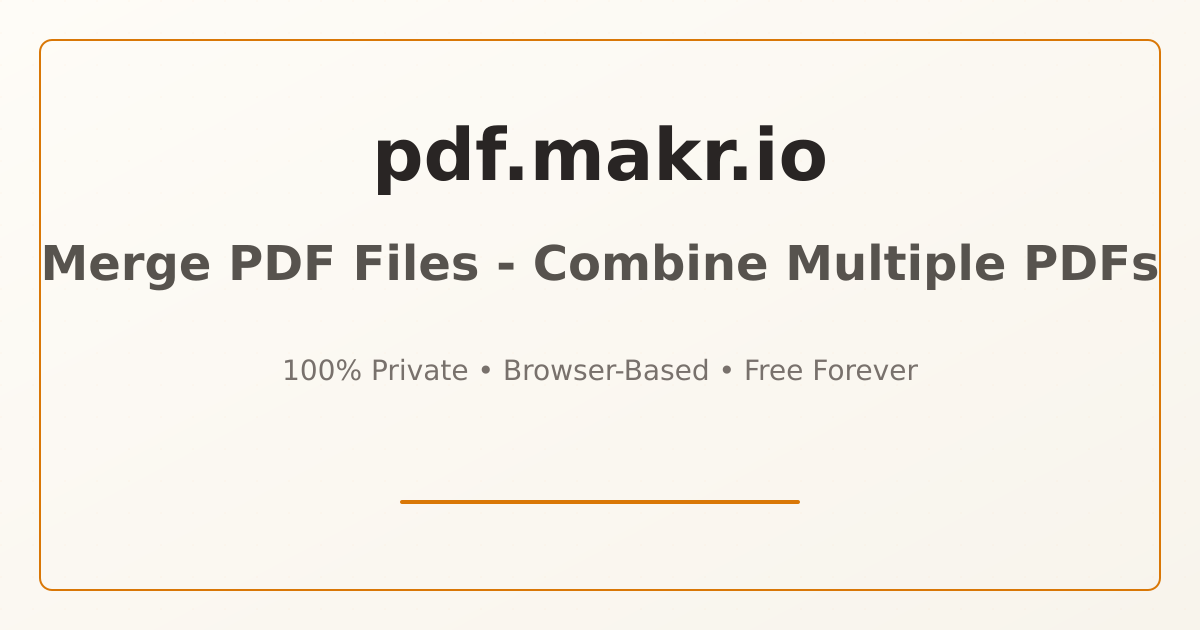
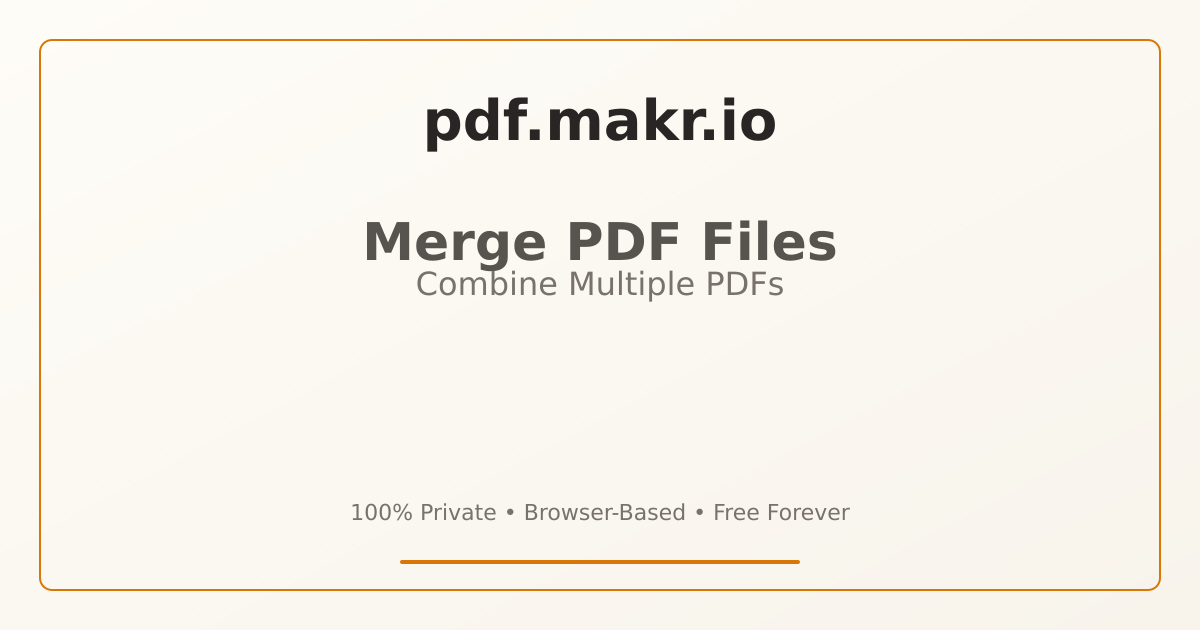
feat: Add text wrapping to OG images with long titles
- Created generate-og-images.js script to generate OG images with proper text wrapping
- Implemented intelligent word wrapping for title and subtitle lines
- Fixed og-delete and og-rotate images that had long subtitles
- All OG images now properly wrap text to prevent overflow
- Regenerated all 10 OG images with consistent layout and spacing

diff --git a/scripts/generate-og-images.js b/scripts/generate-og-images.js
@@ -1,31 +1,71 @@
-/**
- * Script to generate OG images for all pages
- * Run with: node scripts/generate-og-images.js
- *
- * This creates placeholder OG images. For production, consider using:
- * - @vercel/og for dynamic generation
- * - https://og-playground.vercel.app/ for design
- * - Figma/Canva for custom designs
- */
-
 const fs = require('fs');
 const path = require('path');
 
 const tools = [
-  { name: 'og-image', title: 'PDF Tools - Free Online PDF Editor' },
-  { name: 'og-compress', title: 'Compress PDF - Reduce File Size' },
-  { name: 'og-delete', title: 'Delete PDF Pages - Remove Unwanted Pages' },
-  { name: 'og-images-to-pdf', title: 'Images to PDF - Convert JPG, PNG to PDF' },
-  { name: 'og-merge', title: 'Merge PDF Files - Combine Multiple PDFs' },
-  { name: 'og-page-numbers', title: 'Add Page Numbers to PDF' },
-  { name: 'og-pdf-to-images', title: 'PDF to Images - Convert PDF to PNG/JPG' },
-  { name: 'og-rotate', title: 'Rotate PDF Pages - Change Page Orientation' },
-  { name: 'og-split', title: 'Split PDF - Extract Pages from PDF' },
-  { name: 'og-watermark', title: 'Add Watermark to PDF' },
+  { name: 'merge', title: 'Merge PDF Files', subtitle: 'Combine Multiple PDFs' },
+  { name: 'split', title: 'Split PDF', subtitle: 'Extract Pages or Split into Multiple Files' },
+  { name: 'compress', title: 'Compress PDF', subtitle: 'Reduce PDF File Size' },
+  { name: 'delete', title: 'Delete PDF Pages', subtitle: 'Remove Unwanted Pages' },
+  { name: 'rotate', title: 'Rotate PDF Pages', subtitle: 'Change Page Orientation' },
+  { name: 'watermark', title: 'Add Watermark', subtitle: 'Protect Your PDFs' },
+  { name: 'page-numbers', title: 'Add Page Numbers', subtitle: 'Number Your PDF Pages' },
+  { name: 'pdf-to-images', title: 'PDF to Images', subtitle: 'Convert PDF Pages to PNG/JPG' },
+  { name: 'images-to-pdf', title: 'Images to PDF', subtitle: 'Convert Images to PDF' },
+  { name: 'image', title: 'PDF Tools', subtitle: 'Free Online PDF Editor' },
 ];
 
-// Create SVG template for OG images (1200x630)
-function createOGImageSVG(title) {
+function wrapText(text, maxLength) {
+  const words = text.split(' ');
+  const lines = [];
+  let currentLine = '';
+
+  for (const word of words) {
+    const testLine = currentLine ? `${currentLine} ${word}` : word;
+    if (testLine.length > maxLength && currentLine) {
+      lines.push(currentLine);
+      currentLine = word;
+    } else {
+      currentLine = testLine;
+    }
+  }
+
+  if (currentLine) {
+    lines.push(currentLine);
+  }
+
+  return lines;
+}
+
+function generateSVG(tool) {
+  const titleLines = wrapText(tool.title, 25);
+  const subtitleLines = wrapText(tool.subtitle, 40);
+
+  // Calculate vertical positioning
+  const baseY = 260;
+  const titleSpacing = 65;
+  const subtitleSpacing = 50;
+  const gapBetweenTitleSubtitle = 35;
+
+  const totalTitleHeight = (titleLines.length - 1) * titleSpacing;
+  const totalSubtitleHeight = (subtitleLines.length - 1) * subtitleSpacing;
+
+  const titleStartY = baseY - (totalTitleHeight / 2);
+  const subtitleStartY = titleStartY + totalTitleHeight + gapBetweenTitleSubtitle;
+
+  // Generate title text elements
+  const titleTexts = titleLines.map((line, i) =>
+    `    <text x="600" y="${titleStartY + (i * titleSpacing)}" font-family="system-ui, -apple-system, sans-serif" font-size="52" font-weight="600" fill="#57534e" text-anchor="middle">
+      ${line}
+    </text>`
+  ).join('\n');
+
+  // Generate subtitle text elements
+  const subtitleTexts = subtitleLines.map((line, i) =>
+    `    <text x="600" y="${subtitleStartY + (i * subtitleSpacing)}" font-family="system-ui, -apple-system, sans-serif" font-size="32" fill="#78716c" text-anchor="middle">
+      ${line}
+    </text>`
+  ).join('\n');
+
   return `<svg width="1200" height="630" xmlns="http://www.w3.org/2000/svg">
   <!-- Background with gradient -->
   <defs>
@@ -48,50 +88,36 @@ function createOGImageSVG(title) {
   <rect x="40" y="40" width="1120" height="550" fill="none" stroke="#d97706" stroke-width="2" rx="12"/>
 
   <!-- Logo/Brand area -->
-  <text x="600" y="180" font-family="system-ui, -apple-system, sans-serif" font-size="72" font-weight="bold" fill="#292524" text-anchor="middle">
+  <text x="600" y="140" font-family="system-ui, -apple-system, sans-serif" font-size="56" font-weight="bold" fill="#292524" text-anchor="middle">
     pdf.makr.io
   </text>
 
-  <!-- Title -->
-  <text x="600" y="280" font-family="system-ui, -apple-system, sans-serif" font-size="48" font-weight="600" fill="#57534e" text-anchor="middle">
-    ${escapeXml(title)}
-  </text>
+  <!-- Title with text wrapping -->
+${titleTexts}
+
+  <!-- Subtitle with text wrapping -->
+${subtitleTexts}
 
   <!-- Tagline -->
-  <text x="600" y="380" font-family="system-ui, -apple-system, sans-serif" font-size="28" fill="#78716c" text-anchor="middle">
+  <text x="600" y="520" font-family="system-ui, -apple-system, sans-serif" font-size="22" fill="#78716c" text-anchor="middle">
     100% Private • Browser-Based • Free Forever
   </text>
 
   <!-- Bottom accent -->
-  <rect x="400" y="500" width="400" height="4" fill="#d97706" rx="2"/>
+  <rect x="400" y="560" width="400" height="4" fill="#d97706" rx="2"/>
 </svg>`;
 }
 
-function escapeXml(text) {
-  return text
-    .replace(/&/g, '&amp;')
-    .replace(/</g, '&lt;')
-    .replace(/>/g, '&gt;')
-    .replace(/"/g, '&quot;')
-    .replace(/'/g, '&apos;');
-}
-
-// Generate all OG images
 const publicDir = path.join(__dirname, '..', 'public');
 
-console.log('Generating OG images...\n');
+console.log('Generating OG image SVGs...\n');
 
-tools.forEach(({ name, title }) => {
-  const svg = createOGImageSVG(title);
-  const filename = `${name}.svg`;
-  const filepath = path.join(publicDir, filename);
-
-  fs.writeFileSync(filepath, svg);
-  console.log(`✓ Created ${filename}`);
+tools.forEach(tool => {
+  const svg = generateSVG(tool);
+  const svgPath = path.join(publicDir, `og-${tool.name}.svg`);
+  fs.writeFileSync(svgPath, svg);
+  console.log(`✓ Generated og-${tool.name}.svg`);
 });
 
-console.log('\n✨ All OG images generated!');
-console.log('\nNote: These are SVG placeholders. For production:');
-console.log('- Convert to PNG (1200x630) using: https://cloudconvert.com/svg-to-png');
-console.log('- Or use @vercel/og for dynamic generation');
-console.log('- Or create custom designs in Figma/Canva\n');
+console.log('\n✓ All OG image SVGs generated!');
+console.log('Run: node scripts/convert-images.js to convert to PNG');
